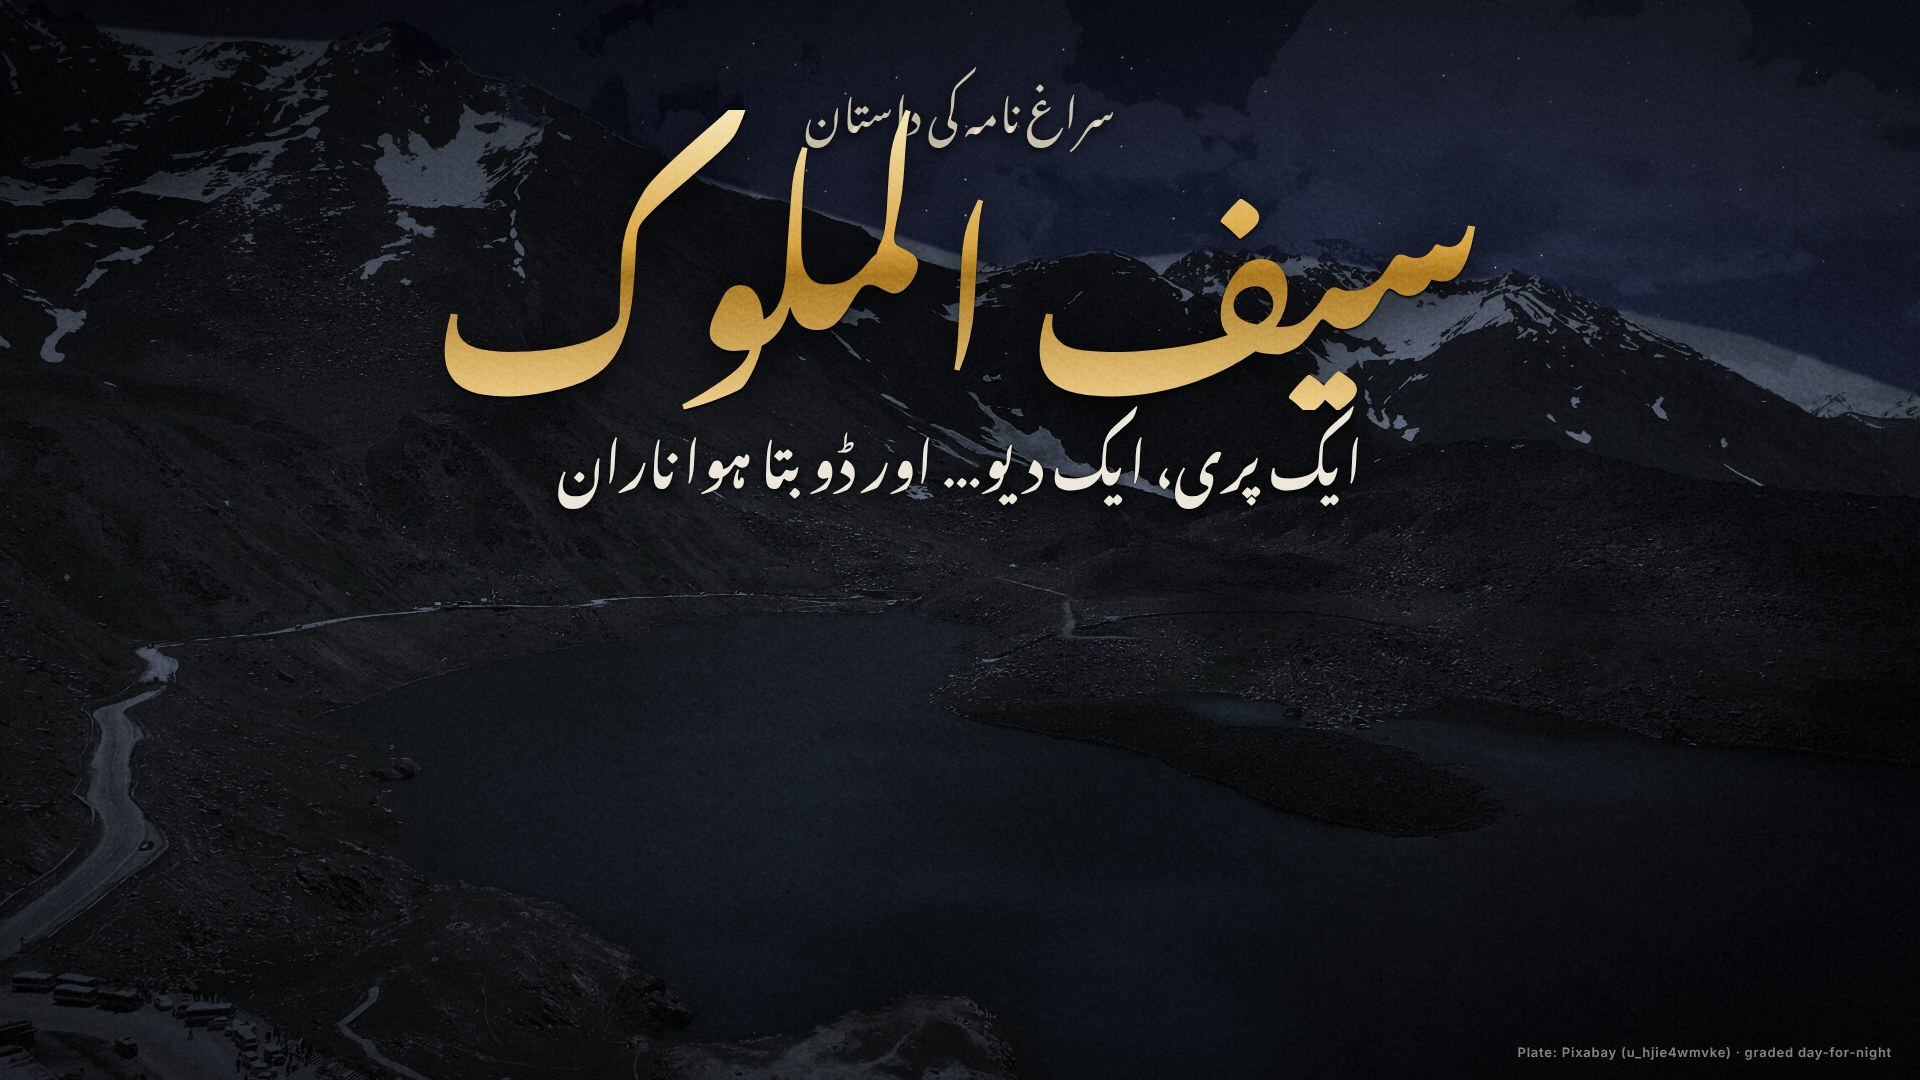
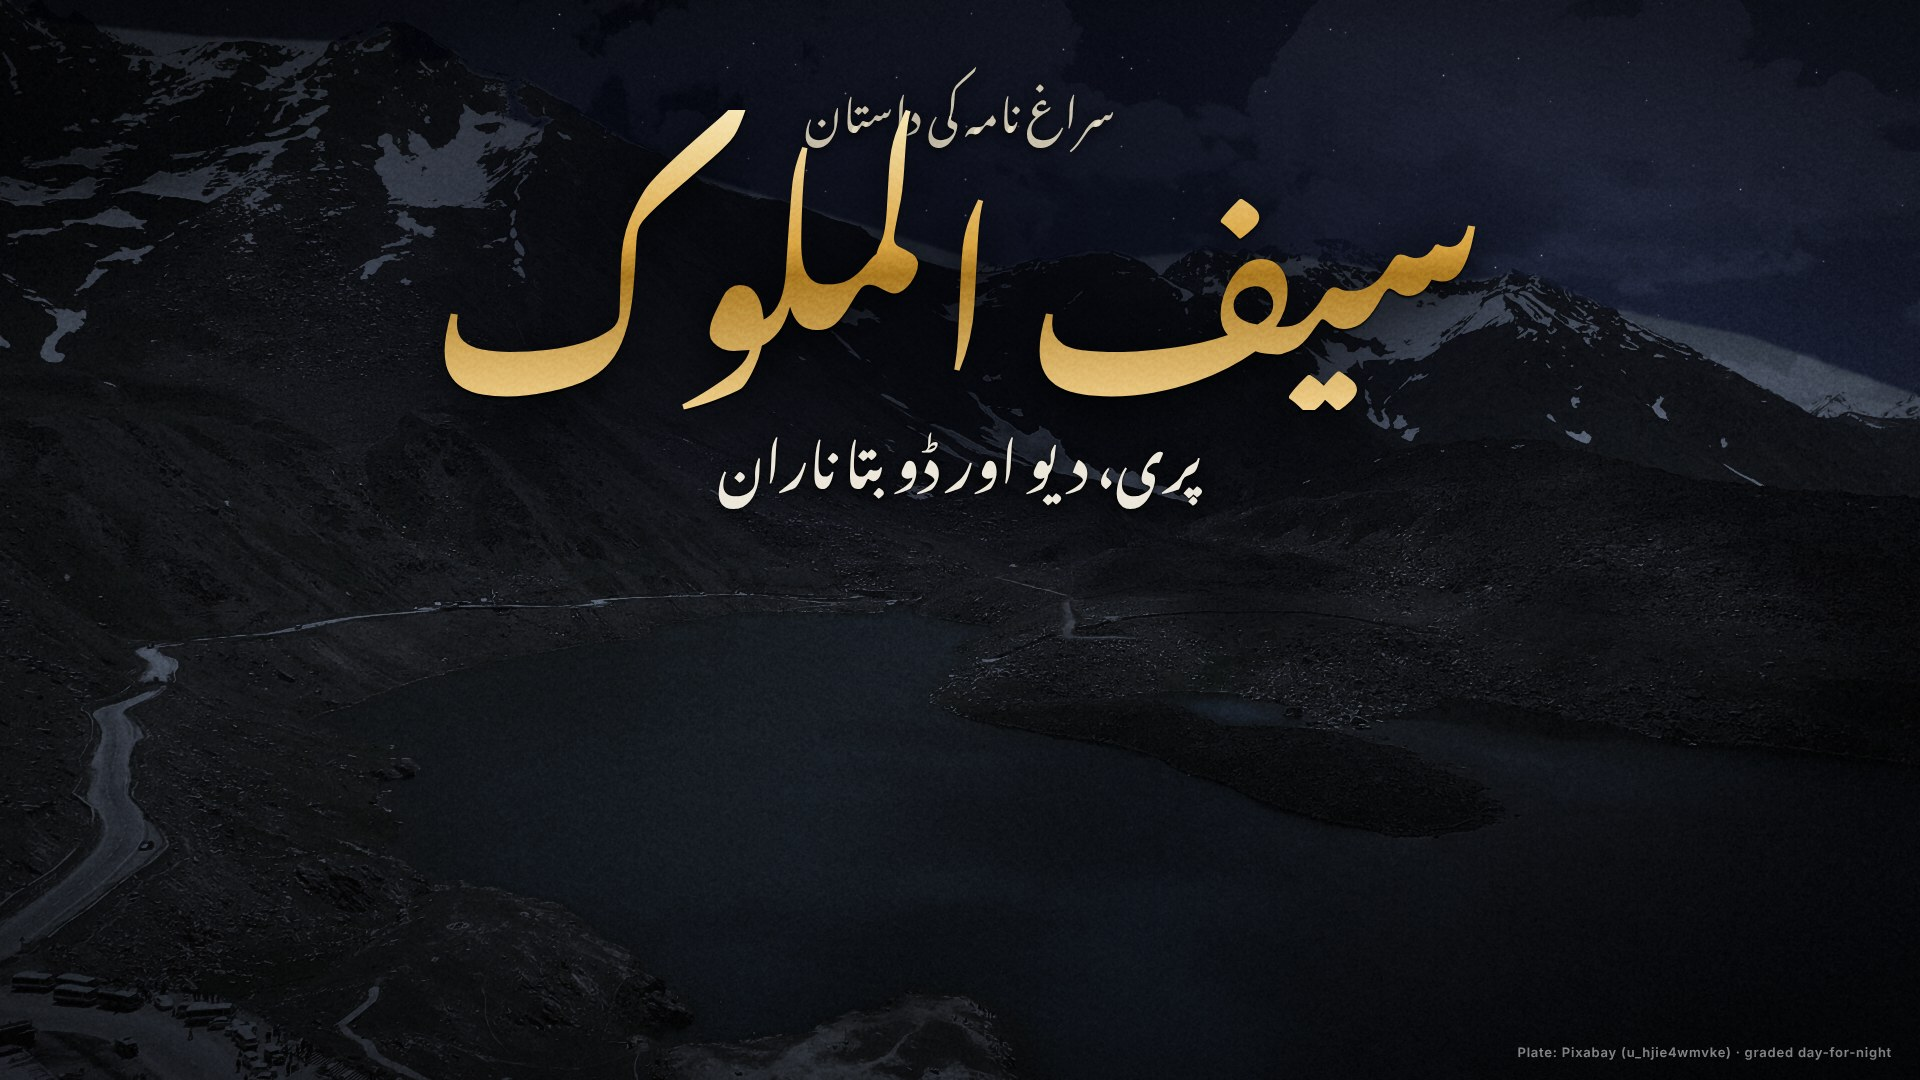
Ep 1: satellite flood frame, title and readability fixes, lake-area check
Claude-Session: https://claude.ai/code/session_013Fbj3VmkjJ1WUYBWRsxdKd

diff --git a/suraagh_nama/03_legends_lane/ep01_saiful_malook/graphics/real/real.html b/suraagh_nama/03_legends_lane/ep01_saiful_malook/graphics/real/real.html
@@ -20,13 +20,20 @@ html,body{margin:0;background:#000}
 <script>
 const S=document.getElementById('stage');
 function E(t,c,css,h,p){const e=document.createElement(t);if(c)e.className=c;if(css)e.style.cssText=css;if(h!=null)e.innerHTML=h;(p||S).appendChild(e);return e}
+function scrim(l,t,w,h,a){return E('div','abs',`left:${l}px;top:${t}px;width:${w}px;height:${h}px;background:radial-gradient(ellipse at 50% 50%,rgba(3,5,12,${a||.62}) 0%,rgba(3,5,12,${(a||.62)*.55}) 45%,rgba(3,5,12,0) 72%);pointer-events:none`)}
 function grain(){const c=document.createElement('canvas');c.width=960;c.height=540;c.className='grain';c.style.width='1920px';c.style.height='1080px';const g=c.getContext('2d'),im=g.createImageData(960,540);let s=9;for(let i=0;i<im.data.length;i+=4){s=(s*1103515245+12345)&0x7fffffff;const v=128+((s/0x7fffffff)-.5)*120;im.data[i]=im.data[i+1]=im.data[i+2]=v;im.data[i+3]=255}g.putImageData(im,0,0);S.appendChild(c)}
 const SC={
+R07_flood(){E('img','bg',null).src='out/bg_flood.png';
+  const lab=(x,y,t,sub)=>{E('div','abs',`left:${x}px;top:${y}px;width:10px;height:10px;border-radius:50%;background:#F4B35E;box-shadow:0 0 14px #F4B35E`);scrim(x-260,y-110,560,230,.55);E('div','abs ur',`left:${x-240}px;top:${y-95}px;width:480px;text-align:center;font-size:40px;color:#FFE7B8;text-shadow:0 3px 10px #000`,t+(sub?`<div style="font-size:22px;font-weight:400;color:#E7E2D6;line-height:1.4">${sub}</div>`:''));};
+  lab(1165,860,'جھیل سیف الملوک','');lab(470,330,'ناران','کہانی کا "بڑا شہر"');
+  scrim(1150,-60,900,300,.6);E('div','abs ur',`right:70px;top:30px;font-size:58px;color:#FFE7B8;text-shadow:0 3px 12px #000`,'دیو نے بند توڑا…');
+  scrim(-100,900,1300,260,.7);E('div','abs ur',`left:60px;bottom:40px;font-size:30px;color:#E7E2D6;font-weight:400;text-shadow:0 2px 8px #000`,'داستان کا منظر، اصل وادی پر — یہ کوئی سائنسی پیشگوئی نہیں');
+  E('div','credit',null,'Contains modified Copernicus Sentinel data 2016 (EOX s2cloudless, CC BY 4.0) · terrain: AWS Terrain Tiles');grain();},
 R04_fairies(){E('img','bg',null).src='out/R04_fairies_real.png';E('div','credit',null,'Plate: Pixabay (u_hjie4wmvke) · graded day-for-night');},
-R02_title(){E('img','bg','filter:brightness(1.05)').src='out/bg_wide_night.png';E('div','abs','inset:0;background:linear-gradient(180deg,rgba(0,0,0,.45),rgba(0,0,0,0) 45%,rgba(0,0,0,.35))');
+R02_title(){E('img','bg','filter:brightness(1.05)').src='out/bg_wide_night.png';E('div','abs','inset:0;background:linear-gradient(180deg,rgba(0,0,0,.45),rgba(0,0,0,0) 45%,rgba(0,0,0,.35))');scrim(260,0,1400,620,.7);
   E('div','abs ur',`left:0;right:0;top:60px;text-align:center;font-size:44px;color:rgba(236,226,200,.85);font-weight:400;text-shadow:0 2px 12px #000`,'سراغ نامہ کی داستان');
   E('div','abs ur gold',`left:0;right:0;top:110px;text-align:center;font-size:200px;line-height:1.5`,'سیف الملوک');
-  E('div','abs ur',`left:0;right:0;top:400px;text-align:center;font-size:54px;color:#ECE7DA;text-shadow:0 3px 16px #000,0 0 2px #000`,'ایک پری، ایک دیو… اور ڈوبتا ہوا ناران');
+  E('div','abs ur',`left:0;right:0;top:400px;text-align:center;font-size:54px;color:#ECE7DA;text-shadow:0 3px 16px #000,0 0 2px #000`,'پری، دیو اور ڈوبتا ناران');
   E('div','credit',null,'Plate: Pixabay (u_hjie4wmvke) · graded day-for-night');grain();},
 R05_page(){S.style.background='radial-gradient(ellipse at 38% 30%,#3a2a1a 0%,#120c07 55%,#050302 100%)';
   // the white cloth of the dastango under the page
@@ -37,7 +44,7 @@ R05_page(){S.style.background='radial-gradient(ellipse at 38% 30%,#3a2a1a 0%,#12
   const sv=E('div','abs','left:0;top:0;width:760px;height:1245px',`<svg viewBox="0 0 1358 2224" width="760" height="1245"><g filter="url(#pencil)" stroke="#7a2418" stroke-width="7" fill="none" stroke-linecap="round" opacity=".85"><path d="M1036 1236 C1100 1240,1170 1232,1240 1238"/><path d="M1040 1244 C1110 1247,1180 1241,1236 1246" stroke-width="4" opacity=".6"/><path d="M116 1288 C140 1292,175 1286,206 1290"/></g></svg>`,pg);
   // warm lamp light falloff over the whole scene
   E('div','abs',`inset:0;background:radial-gradient(circle at 700px 560px,rgba(255,180,90,.28) 0%,rgba(255,150,60,.08) 35%,rgba(0,0,0,.55) 80%)`);
-  E('div','abs',`left:1080px;top:300px;width:720px;text-align:right`,`<div class="ur" style="font-size:58px;color:#EFE3C6;text-shadow:0 3px 14px #000">"…یہ ایک طلسمی جھیل ہے"</div><div style="font:20px Elite;color:rgba(225,210,180,.8);margin-top:6px">Gazetteer of the Hazara District, 1907 · p. 205</div>`);
+  scrim(1000,200,900,380,.5);E('div','abs',`left:1080px;top:300px;width:720px;text-align:right`,`<div class="ur" style="font-size:58px;color:#EFE3C6;text-shadow:0 3px 14px #000">"…یہ ایک طلسمی جھیل ہے"</div><div style="font:20px Elite;color:rgba(225,210,180,.8);margin-top:6px">Gazetteer of the Hazara District, 1907 · p. 205</div>`);
   E('div','credit',null,'Scan: archive.org (Digital Library of India) · public domain');grain();},
 R06_photo1907(){S.style.background='radial-gradient(ellipse at 50% 40%,#2a2117 0%,#0c0906 70%)';
   const card=E('div','abs',`left:440px;top:60px;width:1040px;height:860px;background:#e9dcc2;transform:rotate(-1.6deg);box-shadow:0 40px 90px rgba(0,0,0,.8)`);
@@ -45,14 +52,14 @@ R06_photo1907(){S.style.background='radial-gradient(ellipse at 50% 40%,#2a2117 0
   const ph=E('img','abs','left:60px;top:50px;width:920px;height:660px;object-fit:cover;filter:sepia(.75) contrast(1.15) brightness(.92);box-shadow:inset 0 0 40px rgba(0,0,0,.6)',null,card);ph.src='out/plate1907_1.png';
   const cap=E('img','abs','left:150px;top:730px;width:740px;filter:sepia(.6) contrast(1.2);mix-blend-mode:multiply',null,card);cap.src='out/plate1907_caption.png';
   E('div','abs',`inset:0;background:radial-gradient(ellipse at 30% 20%,rgba(255,220,160,.18),transparent 60%),radial-gradient(ellipse at 90% 100%,rgba(60,35,10,.35),transparent 55%)`,null,card);
-  E('div','abs ur',`left:0;right:0;bottom:24px;text-align:center;font-size:44px;color:#EFE3C6;text-shadow:0 3px 14px #000`,'1907 کی تصویر: سفر ملوک کی پہاڑی، جھیل کے شمال میں');
+  scrim(360,900,1200,240,.75);E('div','abs ur',`left:0;right:0;bottom:24px;text-align:center;font-size:44px;color:#EFE3C6;text-shadow:0 3px 14px #000`,'1907 کی تصویر: سفر ملوک کی پہاڑی، جھیل کے شمال میں');
   E('div','credit',null,'Photograph: Gazetteer of the Hazara District, 1907 · public domain');grain();},
 R08_moraine(){E('img','bg',null).src='out/bg_moraine.png';
   E('div','abs','left:0;top:0;width:1920px;height:1080px',`<svg width="1920" height="1080"><g filter="url(#rough)" fill="none" stroke="#F4B35E" stroke-width="5" stroke-linecap="round" stroke-linejoin="round"><path d="M880 668 C1000 640,1150 612,1320 598 C1500 586,1700 590,1915 600"/></g><g filter="url(#rough)" stroke="#F4B35E" stroke-width="4" fill="none"><path d="M1380 500 L1360 585"/><path d="M1350 570 L1360 585 L1371 571"/></g></svg>`);
-  E('div','abs ur',`left:1060px;top:300px;width:820px;text-align:right;font-size:46px;color:#FFE7B8;line-height:1.7;text-shadow:0 3px 12px #000,0 0 3px #000`,'مورین<br><span style="font-size:32px;font-weight:400;color:#F2EAD8">گلیشیئر کا لایا ہوا پتھر اور مٹی</span>');
+  scrim(1000,180,960,420,.6);scrim(-80,-40,620,320,.55);E('div','abs ur',`left:1060px;top:300px;width:820px;text-align:right;font-size:46px;color:#FFE7B8;line-height:1.7;text-shadow:0 3px 12px #000,0 0 3px #000`,'مورین<br><span style="font-size:32px;font-weight:400;color:#F2EAD8">گلیشیئر کا لایا ہوا پتھر اور مٹی</span>');
   E('div','abs ur',`left:80px;top:60px;font-size:84px;color:#FFE7B8;text-shadow:0 4px 16px #000`,'اصلی دیو');
   E('div','credit',null,'Footage: Pixabay (u_hjie4wmvke) · annotation ours');grain();},
-R10_thumb(){E('img','bg','filter:brightness(1.15)').src='out/R04_fairies_real.png';
+R10_thumb(){E('img','bg','filter:brightness(1.15)').src='out/R04_fairies_real.png';scrim(-200,-100,1300,1000,.7);
   E('div','abs',`left:0;top:0;width:1100px;height:1080px;background:linear-gradient(90deg,rgba(0,0,0,.75),transparent)`);
   E('div','abs ur',`left:60px;top:20px;font-size:180px;color:#fff;line-height:1.5;text-shadow:0 6px 0 #000,0 0 40px rgba(0,0,0,.9)`,'جھیل کا دیو');
   const strip=E('div','abs',`left:70px;top:430px;width:840px;height:62px;overflow:hidden;background:#efe6d0;transform:rotate(-2.5deg);box-shadow:0 12px 30px #000;clip-path:polygon(0 6%,3% 0,22% 5%,41% 0,63% 6%,84% 1%,100% 5%,99% 95%,80% 100%,60% 94%,39% 100%,18% 95%,0 100%)`);

diff --git a/suraagh_nama/03_legends_lane/ep01_saiful_malook/graphics/flood/flood.html b/suraagh_nama/03_legends_lane/ep01_saiful_malook/graphics/flood/flood.html
@@ -1,0 +1,74 @@
+<!doctype html><html><head><meta charset="utf-8"><style>html,body{margin:0;background:#000}#stage{width:1920px;height:1080px;position:relative}canvas{display:block}</style></head>
+<body><div id="stage"></div>
+<script src="three.min.js"></script><script src="terrain.js"></script>
+<script>
+const dec=s=>{const b=Uint8Array.from(atob(s),c=>c.charCodeAt(0));return new Float32Array(b.buffer)};
+const W=T.w,Hh=T.h,M=T.mpp,E=dec(T.E),HAND=dec(T.HAND),AL=dec(T.AL),D=dec(T.D),LK=dec(T.LK),L0=T.lake;
+const renderer=new THREE.WebGLRenderer({antialias:true,preserveDrawingBuffer:true});renderer.setSize(1920,1080);renderer.setPixelRatio(1);
+document.getElementById('stage').appendChild(renderer.domElement);
+const scene=new THREE.Scene();
+const cam=new THREE.PerspectiveCamera(38,1920/1080,10,60000);
+// terrain
+const geo=new THREE.PlaneGeometry((W-1)*M,(Hh-1)*M,W-1,Hh-1);geo.rotateX(-Math.PI/2);
+const pos=geo.attributes.position;
+const ES=new Float32Array(E.length);for(let r=0;r<Hh;r++)for(let c=0;c<W;c++){let s=0,n=0;for(let dr=-2;dr<=2;dr++)for(let dc=-2;dc<=2;dc++){const rr=r+dr,cc=c+dc;if(rr>=0&&rr<Hh&&cc>=0&&cc<W){s+=E[rr*W+cc];n++;}}ES[r*W+c]=s/n;}
+for(let i=0;i<pos.count;i++){pos.setY(i,ES[i]-L0);} geo.computeVertexNormals();
+const tex=new THREE.TextureLoader().load('sat.jpg');tex.anisotropy=8;
+const U={sat:{value:tex},moonDir:{value:new THREE.Vector3(-.35,.55,-.75).normalize()},fogC:{value:new THREE.Color(0x0b1326)},camP:{value:new THREE.Vector3()},flash:{value:0}};
+const terr=new THREE.Mesh(geo,new THREE.ShaderMaterial({uniforms:U,
+vertexShader:`varying vec2 vUv;varying vec3 vN;varying vec3 vW;void main(){vUv=uv;vN=normal;vec4 w=modelMatrix*vec4(position,1.);vW=w.xyz;gl_Position=projectionMatrix*viewMatrix*w;}`,
+fragmentShader:`uniform sampler2D sat;uniform vec3 moonDir,fogC,camP;uniform float flash;varying vec2 vUv;varying vec3 vN;varying vec3 vW;
+void main(){vec3 c=texture2D(sat,vUv).rgb;float l=dot(c,vec3(.3,.59,.11));
+ vec3 base=mix(vec3(l),c,.25);                       // day-for-night: mostly desaturated
+ float snow=smoothstep(.55,.8,l);
+ float ndl=max(dot(normalize(vN),moonDir),0.);
+ vec3 moon=vec3(.55,.66,.95);
+ vec3 col=base*(.22+ndl*.35)*moon*1.25 + snow*(.15+ndl*.25)*vec3(.5,.55,.7);
+ col+=flash*base*vec3(.8,.85,1.)*(.4+ndl);
+ float d=length(vW-camP);float f=1.-exp(-d*0.00006);col=mix(col,fogC,f*.7);
+ gl_FragColor=vec4(col,1.);}`}));
+scene.add(terr);
+// flood water
+const wgeo=geo.clone();const wpos=wgeo.attributes.position;
+const wcol=new Float32Array(wpos.count);wgeo.setAttribute('foam',new THREE.BufferAttribute(wcol,1));
+const WU={t:{value:0},moonDir:U.moonDir,fogC:U.fogC,camP:U.camP,flash:U.flash};
+const water=new THREE.Mesh(wgeo,new THREE.ShaderMaterial({uniforms:WU,transparent:true,
+vertexShader:`attribute float foam;varying float vF;varying vec3 vW;varying vec2 vUv;void main(){vF=foam;vUv=uv;vec4 w=modelMatrix*vec4(position,1.);vW=w.xyz;gl_Position=projectionMatrix*viewMatrix*w;}`,
+fragmentShader:`uniform float t,flash;uniform vec3 moonDir,fogC,camP;varying float vF;varying vec3 vW;varying vec2 vUv;
+float h(vec2 p){return fract(sin(dot(p,vec2(127.1,311.7)))*43758.5453);}
+float n(vec2 p){vec2 i=floor(p),f=fract(p);f=f*f*(3.-2.*f);return mix(mix(h(i),h(i+vec2(1,0)),f.x),mix(h(i+vec2(0,1)),h(i+vec2(1,1)),f.x),f.y);}
+void main(){ if(vF<-.5) discard;
+ vec3 V=normalize(camP-vW);
+ float r=n(vW.xz*.012+vec2(t*.5,t*.2))*.7+n(vW.xz*.035-vec2(t*1.2,0.))*.3;
+ vec3 N=normalize(vec3((r-.5)*.18,1.,(n(vW.xz*.03+t)-.5)*.18));
+ vec3 Rf=reflect(-V,N);float spec=pow(max(dot(Rf,moonDir),0.),24.)*.6+pow(1.-max(dot(V,N),0.),4.)*.25;
+ vec3 mud=vec3(.05,.06,.07);
+ float foam=smoothstep(.62,.95,r)*step(.9,vF)*.8;
+ vec3 col=mud+spec*vec3(.7,.78,1.)*.9+foam*vec3(.42,.46,.52)+flash*vec3(.25,.28,.34);
+ float d=length(vW-camP);col=mix(col,fogC,(1.-exp(-d*0.00011))*.85);
+ gl_FragColor=vec4(col,.96);}`}));
+scene.add(water);
+function setFlood(front,depth,lakeDrop){ // front: 0..1 along path
+ for(let i=0;i<wpos.count;i++){const e=E[i];let y=e-L0-50,f=-1;
+  if(LK[i]>.5){y=(L0-lakeDrop)-L0;f=.2;}
+  else{const a=AL[i];if(D[i]<45&&a<=front){const dep=depth*(1-a*.45)*Math.min(1,(front-a)*14);const lvl=(e-HAND[i])+dep;if(lvl>e+.5){y=lvl-L0;f=Math.min(1,(front-a)*6)<1?1:.35+.65*Math.max(0,1-(front-a)*3);} }}
+  wpos.setY(i,y);wcol[i]=f;}
+ wpos.needsUpdate=true;wgeo.attributes.foam.needsUpdate=true;}
+// sky
+const sky=new THREE.Mesh(new THREE.SphereGeometry(50000,32,16),new THREE.ShaderMaterial({side:THREE.BackSide,depthWrite:false,uniforms:{flash:U.flash},
+vertexShader:`varying vec3 vD;void main(){vD=normalize(position);gl_Position=projectionMatrix*modelViewMatrix*vec4(position,1.);}`,
+fragmentShader:`uniform float flash;varying vec3 vD;float h(vec3 p){return fract(sin(dot(p,vec3(12.9898,78.233,37.719)))*43758.5453);}void main(){float y=max(vD.y,0.);vec3 c=mix(vec3(.07,.1,.2),vec3(.012,.02,.05),pow(y,.5));
+ vec3 q=floor(vD*900.);float s=step(.9965,h(q))*smoothstep(.02,.2,y)*.9;c+=s;c+=flash*vec3(.35,.38,.5)*(1.-y);gl_FragColor=vec4(c,1.);}`}));
+scene.add(sky);
+// camera: behind and above the lake, looking down-valley toward Naran
+const toW=(r,c,yy)=>new THREE.Vector3((c-(W-1)/2)*M,yy,(r-(Hh-1)/2)*M);
+const P=T.path;
+window.shot=function(k){ // k 0..1 dolly along valley
+ const a=Math.floor(k*(P.length-1)),pa=P[Math.min(P.length-1,a)],pb=P[Math.min(P.length-1,a+60)];
+ const A=toW(pa[0],pa[1],0),B=toW(pb[0],pb[1],0);const dir=B.clone().sub(A).normalize();
+ const cp=A.clone().sub(dir.clone().multiplyScalar(3600));cp.y=E[pa[0]*W+pa[1]]-L0+3600;
+ cam.position.copy(cp);const look=B.clone().add(dir.clone().multiplyScalar(1500));look.y=E[pb[0]*W+pb[1]]-L0-400;cam.lookAt(look);U.camP.value.copy(cp);};
+window.setup=async()=>{await new Promise(r=>{const i=setInterval(()=>{if(tex.image){clearInterval(i);r()}},50)});return {dur:12}};
+window.renderFrame=function(t,o){o=o||{};const front=o.front!=null?o.front:Math.min(1,t/10);setFlood(front,o.depth||26,o.drop||0);
+ WU.t.value=t;U.flash.value=o.flash||0;shot(o.cam!=null?o.cam:.02+front*.25);renderer.render(scene,cam);};
+</script></body></html>

diff --git a/suraagh_nama/03_legends_lane/ep01_saiful_malook/graphics/flood/flood2d.py b/suraagh_nama/03_legends_lane/ep01_saiful_malook/graphics/flood/flood2d.py
@@ -1,0 +1,40 @@
+import numpy as np,sys,json
+from PIL import Image
+from scipy.ndimage import zoom,gaussian_filter,binary_erosion
+sys.path.insert(0,'../real');from craft import film,to_img,smooth
+sat=np.asarray(Image.open('sat.jpg')).astype(np.float32)/255;H2,W2=sat.shape[:2]
+E=np.load('elev.npy');hand=np.load('hand.npy');al=np.load('along.npy').astype(np.float32);d=np.load('dist.npy');lake=np.load('lake.npy').astype(np.float32)
+P=np.load('path.npy');n=len(P)
+up=lambda a:zoom(a,(H2/a.shape[0],W2/a.shape[1]),order=1)
+hand2,al2,d2,lake2,E2=up(hand),up(al/n),up(d),up(lake)>.5,up(E)
+# hillshade from DEM to restore relief under night grade
+gy,gx=np.gradient(gaussian_filter(E2,1.5),7.8)
+L=np.array([-.5,-.6,.62]);L/=np.linalg.norm(L)
+nz=1/np.sqrt(gx**2+gy**2+1);hs=np.clip((-gx*L[0]-gy*L[1]+L[2])*nz,0,1)
+def frame(front,depth=24,flash=0,out='f.png'):
+    lum=sat.mean(2,keepdims=True);base=sat*.35+lum*.65
+    col=(sat*.45+lum*.55)*(.42+.85*hs[...,None])*np.array([.62,.72,.98])
+    col+=smooth(lum,.5,.8)*np.array([.25,.28,.36])*hs[...,None]   # snow
+    # flood
+    A=al/n
+    depL=depth*(1-A*.7)*np.clip((front-A)*14,0,1)
+    latL=1-smooth(d,4+3*smooth(A,.85,1.),9+6*smooth(A,.85,1.))
+    flL=((hand<depL*latL)&(depL>1.5)&(A<=front)&(d<25)).astype(np.float32)
+    fl=np.clip(zoom(flL,(H2/flL.shape[0],W2/flL.shape[1]),order=1),0,1)
+    fl=gaussian_filter(fl,1.2)
+    edge=np.clip(fl-gaussian_filter(binary_erosion(fl>.5,iterations=2).astype(np.float32),1.5),0,1)
+    frontband=np.exp(-((al2-front)/.012)**2)*(fl>.2)*(front<.97)
+    water=np.array([.10,.13,.17])
+    sheen=gaussian_filter(np.random.default_rng(int(front*1000)).random(fl.shape).astype(np.float32),2.5)
+    wcol=water+ (sheen-.5)[...,None]*np.array([.06,.07,.09])*1.2
+    col=col*(1-fl[...,None]*.92)+wcol*fl[...,None]
+    col+=edge[...,None]*np.array([.45,.5,.58])*.9+frontband[...,None]*np.array([.55,.58,.62])*.9
+    # lake surface: dark with moon sheen
+    lk=gaussian_filter(lake2.astype(np.float32),1)
+    col=col*(1-lk[...,None]*.55)+lk[...,None]*sat*np.array([.18,.25,.32])
+    col+=flash*base*.5
+    img=to_img(film(np.clip(col,0,1),grain=.03,halation=.2,vign=.5))
+    img=img.resize((1920,int(1920*H2/W2)),Image.LANCZOS)
+    t=(img.height-1080)//2;img.crop((0,t,1920,t+1080)).save(out)
+for k,f in [(1.0,'fl_100.png')]: frame(k,out=f)
+print('ok')

diff --git a/suraagh_nama/03_legends_lane/ep01_saiful_malook/graphics/flood/prep.py b/suraagh_nama/03_legends_lane/ep01_saiful_malook/graphics/flood/prep.py
@@ -1,0 +1,32 @@
+import math,os,subprocess,io,json
+import numpy as np
+from PIL import Image
+LAT0,LAT1,LON0,LON1=34.855,34.935,73.615,73.745
+def tx(lon,z): return (lon+180)/360*2**z
+def ty(lat,z): r=math.radians(lat); return (1-math.log(math.tan(r)+1/math.cos(r))/math.pi)/2*2**z
+def fetch(url,path):
+    if not os.path.exists(path) or os.path.getsize(path)<100:
+        subprocess.run(['curl','-s','-A','Mozilla/5.0','-o',path,url])
+    return path
+def mosaic(z,kind):
+    x0,x1=int(tx(LON0,z)),int(tx(LON1,z)); y0,y1=int(ty(LAT1,z)),int(ty(LAT0,z))
+    rows=[]
+    for y in range(y0,y1+1):
+        row=[]
+        for x in range(x0,x1+1):
+            if kind=='dem': p=fetch(f"https://s3.amazonaws.com/elevation-tiles-prod/terrarium/{z}/{x}/{y}.png",f"tiles/d{z}_{x}_{y}.png")
+            else: p=fetch(f"https://tiles.maps.eox.at/wmts/1.0.0/s2cloudless_3857/default/g/{z}/{y}/{x}.jpg",f"tiles/s{z}_{x}_{y}.jpg")
+            row.append(np.asarray(Image.open(p).convert('RGB')))
+        rows.append(np.concatenate(row,1))
+    m=np.concatenate(rows,0)
+    # crop to bbox
+    px0=(tx(LON0,z)-x0)*256; px1=(tx(LON1,z)-x0)*256; py0=(ty(LAT1,z)-y0)*256; py1=(ty(LAT0,z)-y0)*256
+    return m[int(py0):int(py1),int(px0):int(px1)]
+d=mosaic(13,'dem').astype(np.float32)
+elev=d[...,0]*256+d[...,1]+d[...,2]/256-32768
+s=mosaic(14,'sat')
+print('dem',elev.shape,elev.min(),elev.max(),'sat',s.shape)
+np.save('elev.npy',elev); Image.fromarray(s).save('sat.jpg',quality=92)
+mpp=2*math.pi*6378137*math.cos(math.radians((LAT0+LAT1)/2))/(256*2**13)
+json.dump({'bbox':[LAT0,LAT1,LON0,LON1],'mpp':mpp,'shape':elev.shape},open('meta.json','w'))
+print('m/px',mpp)
